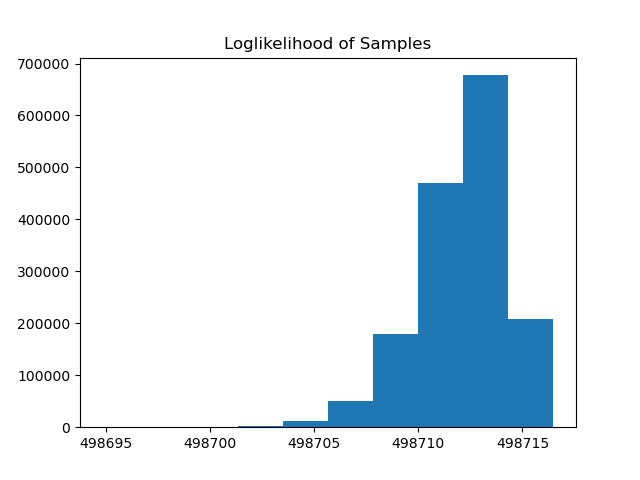
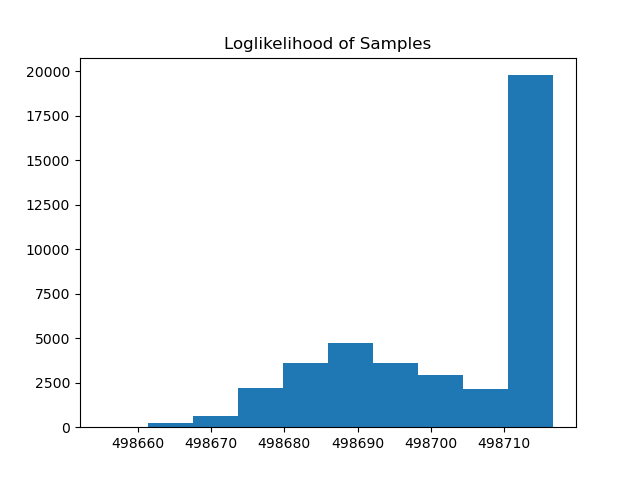
reparameterize to mc, mt with jacobian

diff --git a/digman_galwaves/mcdigman1-galwaves-f588fb2cf04c/ra_waveform_time.py b/digman_galwaves/mcdigman1-galwaves-f588fb2cf04c/ra_waveform_time.py
@@ -95,37 +95,58 @@ class BinaryTimeWaveformAmpFreqD():
         m_total = self.params[idx_mtotal]
         m_chirp = self.params[idx_mchirp]
 
-        #freqDDD = (19/3) * ((freqD * freqDD) / freq0) 
+        t_obs = 4.0*wc.SECSYEAR
+        freq0 = alpha / t_obs
         gamma = delta + (11/3)*(beta**2 / alpha)
         kappa = (19/3) * ((beta * gamma) / alpha)
-        t_obs = 4.0*wc.SECSYEAR
+        
         #define mass parameterizations
-       # eta = (m_chirp/m_total)**(5/3)
-        #dm = (1-(4*eta))**(1/2)
-        # mass1 = m_total * (1 + dm) / 2
-        # mass2 = m_total * (1 - dm) / 2
-        # chirpMass = (mass1 * mass2)**(3/5) / (mass1 + mass2)**(1/5)
-        # amp_1PN = np.pi**(2/3) * chirpMass**(5/3) * freq0**(2/3) / dl
-        # fdot_pp = 96/5*np.pi**(8/3)*freq0**(11/3)*chirpMass**(5/3)
-        # I_orb = chirpMass**(5/3) / ((np.pi*freq0)**(4/3))
+        eta = (m_chirp/m_total)**(5/3)
+        dm = (1-(4*eta))**(1/2)
+        mass1 = m_total * (1 + dm) / 2
+        mass2 = m_total * (1 - dm) / 2
+        x = (np.pi*freq0*m_total)**(2/3)
+        amp_1PN = np.pi**(2/3) * m_chirp**(5/3) * freq0**(2/3) / dl
+        fdot_pp = 96/5*np.pi**(8/3)*freq0**(11/3)*m_chirp**(5/3)
 
         #physical model constants - 1PN
         # freqD_1PN = 96/5*np.pi**(8/3)*freq0**(11/3)*m_chirp**(5/3) * (1 + ((743/1344)-(11*eta/16))*(8*np.pi*m_total*freq0)**(2/3))
         # freqDD_1PN = 96/5*np.pi**(8/3)*freq0**(8/3)*m_chirp**(5/3)*freqD_1PN * ((11/3) + (13/3)*((743/1344)-(11*eta/16))*(8*np.pi*m_total*freq0)**(2/3))
         # freqDDD_1PN = (19/3) * ((freqD_1PN * freqDD_1PN) / freq0) * ( 1 + (2/19) * (fdot_pp / freqD_1PN) * (1 + ((13/3)*(freqD_1PN**2 / (freq0 * freqDD_1PN)))) * (((743/1344)-(11*eta/16))*((8*np.pi*m_total*freq0)**(2/3))) )
         
-        # #physical model - tides
-        # I_wd = 8.51e-10 * ( (mass1/(0.6*wc.MSOLAR))**(1/3) + (mass2/(0.6*wc.MSOLAR))**(1/3) )
-        # freqD_tides = 96/5*np.pi**(8/3)*freq0**(11/3)*chirpMass**(5/3) * (1 + ((3*I_wd*(np.pi*freq0)**(4/3)/chirpMass**(5/3)) / (1 - (3*I_wd*(np.pi*freq0)**(4/3)/chirpMass**(5/3)))) )
-        # freqDD_tides = (11/3)*(fdot_pp**2/freq0 ) * ( 1 + (((26/11)*(3*I_wd/I_orb)) / (1 - (3*I_wd/I_orb))) + ( (19/11) * ((3*I_wd/I_orb) / (1 - (3*I_wd/I_orb)))**2 ))
-        # freqDDD_tides = (19/3) * ((freqD_tides * freqDD_tides) / freq0) 
+        #moments of inertia
+        I_wd = 8.51e-10 * ( (mass1/(0.6*wc.MSOLAR))**(1./3.) + (mass2/(0.6*wc.MSOLAR))**(1./3.) )
+        I_orb = m_chirp**(5./3.) / ((np.pi*freq0)**(4./3.))
+
+        #tidal deformability parameters
+        r1 = 10**9 * (mass1/(0.6 * wc.MSOLAR))**(-1/3) * (1/wc.CLIGHT)
+        r2 = 10**9 * (mass2/(0.6 * wc.MSOLAR))**(-1/3) * (1/wc.CLIGHT)
+        y1 = (2/3) * 0.1 * r1**5
+        y2 = (2/3) * 0.1 * r2**5
+        lam1 = y1 / (mass1**5)
+        lam2 = y2 / (mass2**5)
+        lam = (8/13) * ((1 + 7*eta - 31*eta**2)*(lam1 + lam2) + np.sqrt(1 - 4*eta)*(1 + 9*eta - 11*eta**2)*(lam1 - lam2))
+
+        fdot_pp = (96./5.)*np.pi**(8./3.)*freq0**(11./3.)*m_chirp**(5./3.)
+        amp_1PN = np.pi**(2./3.) * m_chirp**(5./3.) * freq0**(2./3.) / dl
+
+        #corrections to fdot
+        deltaI = ((3*I_wd/I_orb)/(1 - (3*I_wd/I_orb)))
+        deltaLam = (39 / 8) * lam
+
+        #corrections to fddot
+        ddeltaI = (26/11)*deltaI + (19/11)*deltaI**2
+        ddeltaLam = (32/11) * deltaLam * x**5 + (21/11) * deltaLam**2 * x**10
+        #tides + deltaLam*x**5 
+        freqD_tides = fdot_pp * (1 + deltaI )
+        freqDD_tides = (11/3)*(fdot_pp**2/freq0) * (1 + ddeltaI)
+        freqDDD_tides = (19/3) * ((freqD_tides * freqDD_tides) / freq0)
 
         kv, _, _ = get_tensor_basis(phi, costh)  # TODO check intrinsic extrinsic separation here
         get_xis_inplace(kv, self.TTs, self.xas, self.yas, self.zas, self.xis)
-        #AmpFreqDeriv_inplace(self.AmpTs, self.PPTs, self.FTs, self.FTds, self.FTdds ,amp, phi0, freq0, freqD, freqDD, freqDDD, 0, self.xis, self.TTs.size)
-        AmpFreqDeriv_inplace_v2(self.AmpTs, self.PPTs, self.FTs, self.FTds, self.FTdds ,amp, phi0, alpha, beta, gamma, kappa, 0, self.xis, self.TTs.size, t_obs)
+        #AmpFreqDeriv_inplace_v2(self.AmpTs, self.PPTs, self.FTs, self.FTds, self.FTdds ,amp, phi0, alpha, beta, gamma, kappa, 0, self.xis, self.TTs.size, t_obs)
         #AmpFreqDeriv_inplace(self.AmpTs, self.PPTs, self.FTs, self.FTds, self.FTdds, amp_1PN, phi0, freq0, freqD_1PN, freqDD_1PN, freqDDD_1PN,TTRef, self.xis, self.TTs.size)
-        # AmpFreqDeriv_inplace(self.AmpTs, self.PPTs, self.FTs, self.FTds, self.FTdds, amp_1PN, phi0, freq0, freqD_tides, freqDD_tides, freqDDD_tides, 0, self.xis, self.TTs.size)
+        AmpFreqDeriv_inplace(self.AmpTs, self.PPTs, self.FTs, self.FTds, self.FTdds, amp_1PN, phi0, freq0, freqD_tides, freqDD_tides, freqDDD_tides, 0, self.xis, self.TTs.size)
 
     def update_extrinsic(self):
         """update the internal state for the extrinsic parts of the parameters"""

diff --git a/digman_galwaves/mcdigman1-galwaves-f588fb2cf04c/likelihood_gb.py b/digman_galwaves/mcdigman1-galwaves-f588fb2cf04c/likelihood_gb.py
@@ -20,6 +20,7 @@ import wdm_const as wc
 import mcmc_params as mcp
 from ra_waveform_time import BinaryTimeWaveformAmpFreqD
 import ra_waveform_time as rwt
+from graph_helper import get_comp_mass_Mc_Mt
 
 fisher_eps_default = np.array([1.e-25, 1.e-0, 1.e-3, 1.e-6, 1.e-25, 1.e-9, 1.e-9, 1.e-4, 1.e-4, 1.e-4, 1.e-4, 1.e-4])
 #eps for alpha = 1.e0, beta = 1.e-3, delta = 1.e-6, 1.e-10, 1.e-19, 1.e-30,
@@ -157,7 +158,6 @@ class GalacticBinaryLikelihood(Likelihood):
         return check_bounds(params_in, self.low_lims, self.high_lims)
 
 
-@njit()
 def check_bounds(params_in, low_lims, high_lims):
     """check if a sample is within the prior range"""
     for itrp in range(params_in.size):
@@ -286,12 +286,12 @@ def create_prior_model(params_fid, sigmas, sigma_prior_lim):
     high_lims[rwt.idx_phi0] = np.pi
 
     #chirp mass priors
-    low_lims[rwt.idx_mchirp] = max(params_fid[rwt.idx_mchirp]-2*sigma_prior_lim*sigmas[rwt.idx_mchirp], 0)
-    high_lims[rwt.idx_mchirp] =  params_fid[rwt.idx_mchirp]+2*sigma_prior_lim*sigmas[rwt.idx_mchirp]
+    low_lims[rwt.idx_mchirp] = 0.26*wc.MSOLAR
+    high_lims[rwt.idx_mchirp] =  1.2*wc.MSOLAR
 
     #total mass priors
-    low_lims[rwt.idx_mtotal] = max(params_fid[rwt.idx_mtotal]-2*sigma_prior_lim*sigmas[rwt.idx_mtotal], 0)
-    high_lims[rwt.idx_mtotal] = params_fid[rwt.idx_mtotal]+2*sigma_prior_lim*sigmas[rwt.idx_mtotal]
+    low_lims[rwt.idx_mtotal] = 0.5*wc.MSOLAR
+    high_lims[rwt.idx_mtotal] = 3.0 *wc.MSOLAR
 
     return low_lims, high_lims
 
@@ -330,17 +330,6 @@ def format_samples_output(samples, params_fid, params_to_format = None):
             label = r"$10^{"+str(-log10_A_base)+r"}$"+label
             samples_got[:, rwt.idx_amp] /= 10**log10_A_base             # reduce amplitude to be order unity
             params_fid_got[rwt.idx_amp] /= 10**log10_A_base             # reduce amplitude to be order unity
-        # elif (i == rwt.idx_freq0):
-        #     #samples_got[:, rwt.idx_freq0] -= params_fid[rwt.idx_freq0]  # convert frequency to shift in frequency
-        #     samples_got[:, rwt.idx_freq0] *= 4*(wc.SECSYEAR)                       # convert frequency in Hz to dimensionless
-        #     #params_fid_got[rwt.idx_freq0] -= params_fid[rwt.idx_freq0]  # convert frequency to shift in frequency
-        #     params_fid_got[rwt.idx_freq0] *= 4*(wc.SECSYEAR)                       # convert frequency in Hz to dimensionless
-        # elif (i == rwt.idx_freqD):
-        #     samples_got[:, rwt.idx_freqD] *= (4*wc.SECSYEAR)**2                       # convert frequency in Hz^2 to dimensionless
-        #     params_fid_got[rwt.idx_freqD] *= (4*wc.SECSYEAR)**2                     # convert frequency in Hz^2 to dimensionless
-        # elif (i == rwt.idx_freqDD):
-        #     samples_got[:, rwt.idx_freqDD] = samples_got[:, rwt.idx_freqDD] * (4*wc.SECSYEAR)**3                      # convert frequency in Hz^2 to dimensionless
-        #     params_fid_got[rwt.idx_freqDD] = params_fid_got[rwt.idx_freqDD] * (4*wc.SECSYEAR)**3                     # convert frequency in Hz^2 to dimensionless
         elif (i == rwt.idx_logdl):
             samples_got[:, rwt.idx_logdl] = np.log(np.exp(samples_got[:,rwt.idx_logdl])/wc.KPCSEC)    #convert back to kpc
             params_fid_got[rwt.idx_logdl] = np.log(np.exp(params_fid_got[rwt.idx_logdl])/wc.KPCSEC)   #convert back to kpc
@@ -355,20 +344,32 @@ def format_samples_output(samples, params_fid, params_to_format = None):
         params_fin.append(params_fid_got[i])
 
     for sample in samples_got:
-        s = []
+        formatted_sample = []
         for i in params_to_format:
-            s.append(sample[i])
+            formatted_sample.append(sample[i])
+
+        m1, m2, q = get_comp_mass_Mc_Mt(sample[rwt.idx_mchirp], sample[rwt.idx_mtotal])
+        formatted_sample.append(m1)
+        formatted_sample.append(m2)
+        formatted_sample.append(q)
+
         # gamma = s[rwt.idx_freqDD] 
         # alpha = s[rwt.idx_freq0]
         # beta = s[rwt.idx_freqD]
         # delta = (gamma - (11/3) * (beta**2 / alpha))
         # s.append(delta)
-        samples_fin.append(s)
+        samples_fin.append(formatted_sample)
 
-    #delta_params = (params_fid_got[rwt.idx_freqDD] - (11/3)*(params_fid_got[rwt.idx_freqD]**2 / params_fid_got[rwt.idx_freq0]))
-    #params_fin.append(delta_params)
+    m1_params = 0.8
+    m2_params = 0.6
+    q_params = 0.75
+    params_fin.append(m1_params)
+    params_fin.append(m2_params)
+    params_fin.append(q_params)
 
-    #labels.append(r"$\delta$")
+    labels.append(r"$M_{1}$")
+    labels.append(r"$M_{2}$")
+    labels.append(r"$q$")
     print (labels)
     
     return np.array(samples_fin), np.array(params_fin), labels

diff --git a/digman_galwaves/mcdigman1-galwaves-f588fb2cf04c/DTMCMC/ptmcmc_helpers.py b/digman_galwaves/mcdigman1-galwaves-f588fb2cf04c/DTMCMC/ptmcmc_helpers.py
@@ -1,6 +1,6 @@
 """C 2023 Matthew C. Digman
 Module with the overall PTMCMC Chain object"""
-from graph_helper import betadelta_m1m2_check
+from graph_helper import betadelta_m1m2_check, mcmt_check, get_comp_mass_Mc_Mt
 import numpy as np
 from numba import njit
 import wdm_const as wc
@@ -234,6 +234,8 @@ def advance_step_ptmcmc(itrb, samples, logLs, T_ladder, accept_record, proposal_
     """advance a single step step in the ptmcmc chain"""
     n_chain = T_ladder.n_chain
     betas = T_ladder.betas
+    logpx = 0.
+    logpy = 0.
 
     for itrt in range(0, n_chain):
         new_point, density_fac, idx_jump, is_success = proposal_manager.dispatch_jump(samples[itrb-1, itrt], itrt)
@@ -242,21 +244,30 @@ def advance_step_ptmcmc(itrb, samples, logLs, T_ladder, accept_record, proposal_
         logL_new = -np.inf
         if is_success:
             # skip likelihood evaluation if proposal is marked as a failure
-            new_point = like_obj.correct_bounds(new_point)   # make sure the point is legal if possible
-            is_success = like_obj.check_bounds(new_point)       # check that the point was correctly made legal
+            new_point_corrected = like_obj.correct_bounds(new_point)   # make sure the point is legal if possible
+            is_corrected_success = like_obj.check_bounds(new_point_corrected)       # check that the point was correctly made legal
 
-            alpha = new_point[1]
-            freq0 = alpha / (4.*wc.SECSYEAR)
-            is_physical = betadelta_m1m2_check(new_point[2], new_point[3], freq0, (4.*wc.SECSYEAR), params_true[6], params_true[5])    
-            if is_physical:
-                # if the point passes, get the likelihood
-                logL_new = like_obj.get_loglike(new_point)
+            if is_corrected_success:
+                new_point = new_point_corrected
+
+                mc = new_point[6]
+                mt = new_point[5]
+                #freq0 = alpha / (4.*wc.SECSYEAR)
+                is_physical = mcmt_check(mc, mt)
+                if is_physical:
+                    # if the point passes, get the likelihood
+                    logL_new = like_obj.get_loglike(new_point)
+                    m1, m2, q = get_comp_mass_Mc_Mt(mc, mt)
+                    jac = (5./3.) * (q)/(mc*(1-q))
+                    #calculate jacobian 
+                    logpy = np.log(jac)
 
         test = np.log(np.random.uniform(0., 1.))             # get the test draw to determine if we accept the point
-        if betas[itrt]*(logL_new-logLs[itrb-1, itrt])+density_fac > test:
+        if betas[itrt]*(logL_new-logLs[itrb-1, itrt])+logpy-logpx > test:
             # the draw was accepted, assign its parameters
             samples[itrb, itrt] = new_point
             logLs[itrb, itrt] = logL_new
+            logpx = logpy
             accept_record[0, itrt, idx_jump] += 1
         else:
             # the draw was rejected, assign the old parameters

diff --git a/digman_galwaves/mcdigman1-galwaves-f588fb2cf04c/run_gal_search.py b/digman_galwaves/mcdigman1-galwaves-f588fb2cf04c/run_gal_search.py
@@ -36,9 +36,9 @@ if __name__ == '__main__':
     # starting variables
     n_chain = 20                 # number of total chains for parallel tempering
     n_cold = 2                         # number of T=1 chains for parallel tempering
-    n_burnin = 200000                   # number of iterations to discard as burn in
+    n_burnin = 100000                   # number of iterations to discard as burn in
     block_size = 1000                  # number of iterations per block when advancing the chain state
-    store_size = 1000000                 # number of samples to store total
+    store_size = 500000                 # number of samples to store total
     N_blocks = store_size//block_size  # number of blocks the sampler must iterate through
 
     de_size = 5000                     # number of samples to store in the differential evolution buffer
@@ -79,8 +79,8 @@ if __name__ == '__main__':
             while True:
                 starting_samples[itrt] = like_obj.prior_draw()
                 current_sample = starting_samples[itrt]
-                freq0 = alpha / (4.*wc.SECSYEAR)
-                is_physical = betadelta_m1m2_check(current_sample[2], current_sample[3], freq0, (4.*wc.SECSYEAR), params_true[6], params_true[5])
+                #freq0 = alpha / (4.*wc.SECSYEAR)
+                is_physical = mcmt_check(current_sample[6], current_sample[5])
                 if is_physical == True:
                     break
                 num_attempts += 1
@@ -133,7 +133,7 @@ if do_corner_plot:
     import matplotlib.pyplot as plt
     import corner
     # reformat the samples to make the plots look nicer
-    samples_format, params_true_format, labels = trial_likelihood.format_samples_output(samples_flattened, params_true, [rwt.idx_amp, rwt.idx_alpha, rwt.idx_beta, rwt.idx_delta])
+    samples_format, params_true_format, labels = trial_likelihood.format_samples_output(samples_flattened, params_true, [rwt.idx_alpha, rwt.idx_mchirp, rwt.idx_mtotal])
     np.savetxt('bias run2.txt', samples_format)
     # create the corner plot figure
     fig = plt.figure(figsize=(10, 7.5))
@@ -148,4 +148,4 @@ if do_corner_plot:
     for ax in figure.get_axes():
         ax.tick_params(which='both', direction='in', bottom=True, top=True, left=True, right=True, labelsize=6)
     #plt.show
-    plt.savefig('Bias Tide Run.png')
+    plt.show()

diff --git a/digman_galwaves/mcdigman1-galwaves-f588fb2cf04c/graph_helper.py b/digman_galwaves/mcdigman1-galwaves-f588fb2cf04c/graph_helper.py
@@ -63,13 +63,22 @@ def betadelta_m1m2_check(beta, delta, freq0, tobs, mc, mt):
                         return True
     return False
 
+def mcmt_check(mc, mt):
+    #make sure points are physical
+    eta = (mc/mt)**(5./3.)
+    if eta <= 0.249:
+        m1, m2, q = get_comp_mass_Mc_Mt(mc, mt)
+        if m1 <= 1.5*MSOLAR and q <= 1.0:
+            return True
+    return False
+
 def get_comp_mass_Mc_Mt(Mc, Mt):
     eta = (Mc/Mt)**(5./3.)
     qq = ((1-2.*eta) - np.sqrt((1-2.*eta)**2. - 4.*eta**2.))/(2.*eta)
     M1=Mt/(1.+qq)
     M2=qq*Mt/(1.+qq)
     q = M2 / M1
-    return M1, M2
+    return M1, M2, q
 
 def getFrequency_McMt_Tides(freq0, t_obs, params, results_exact):
     chirpMass, totalMass = params
